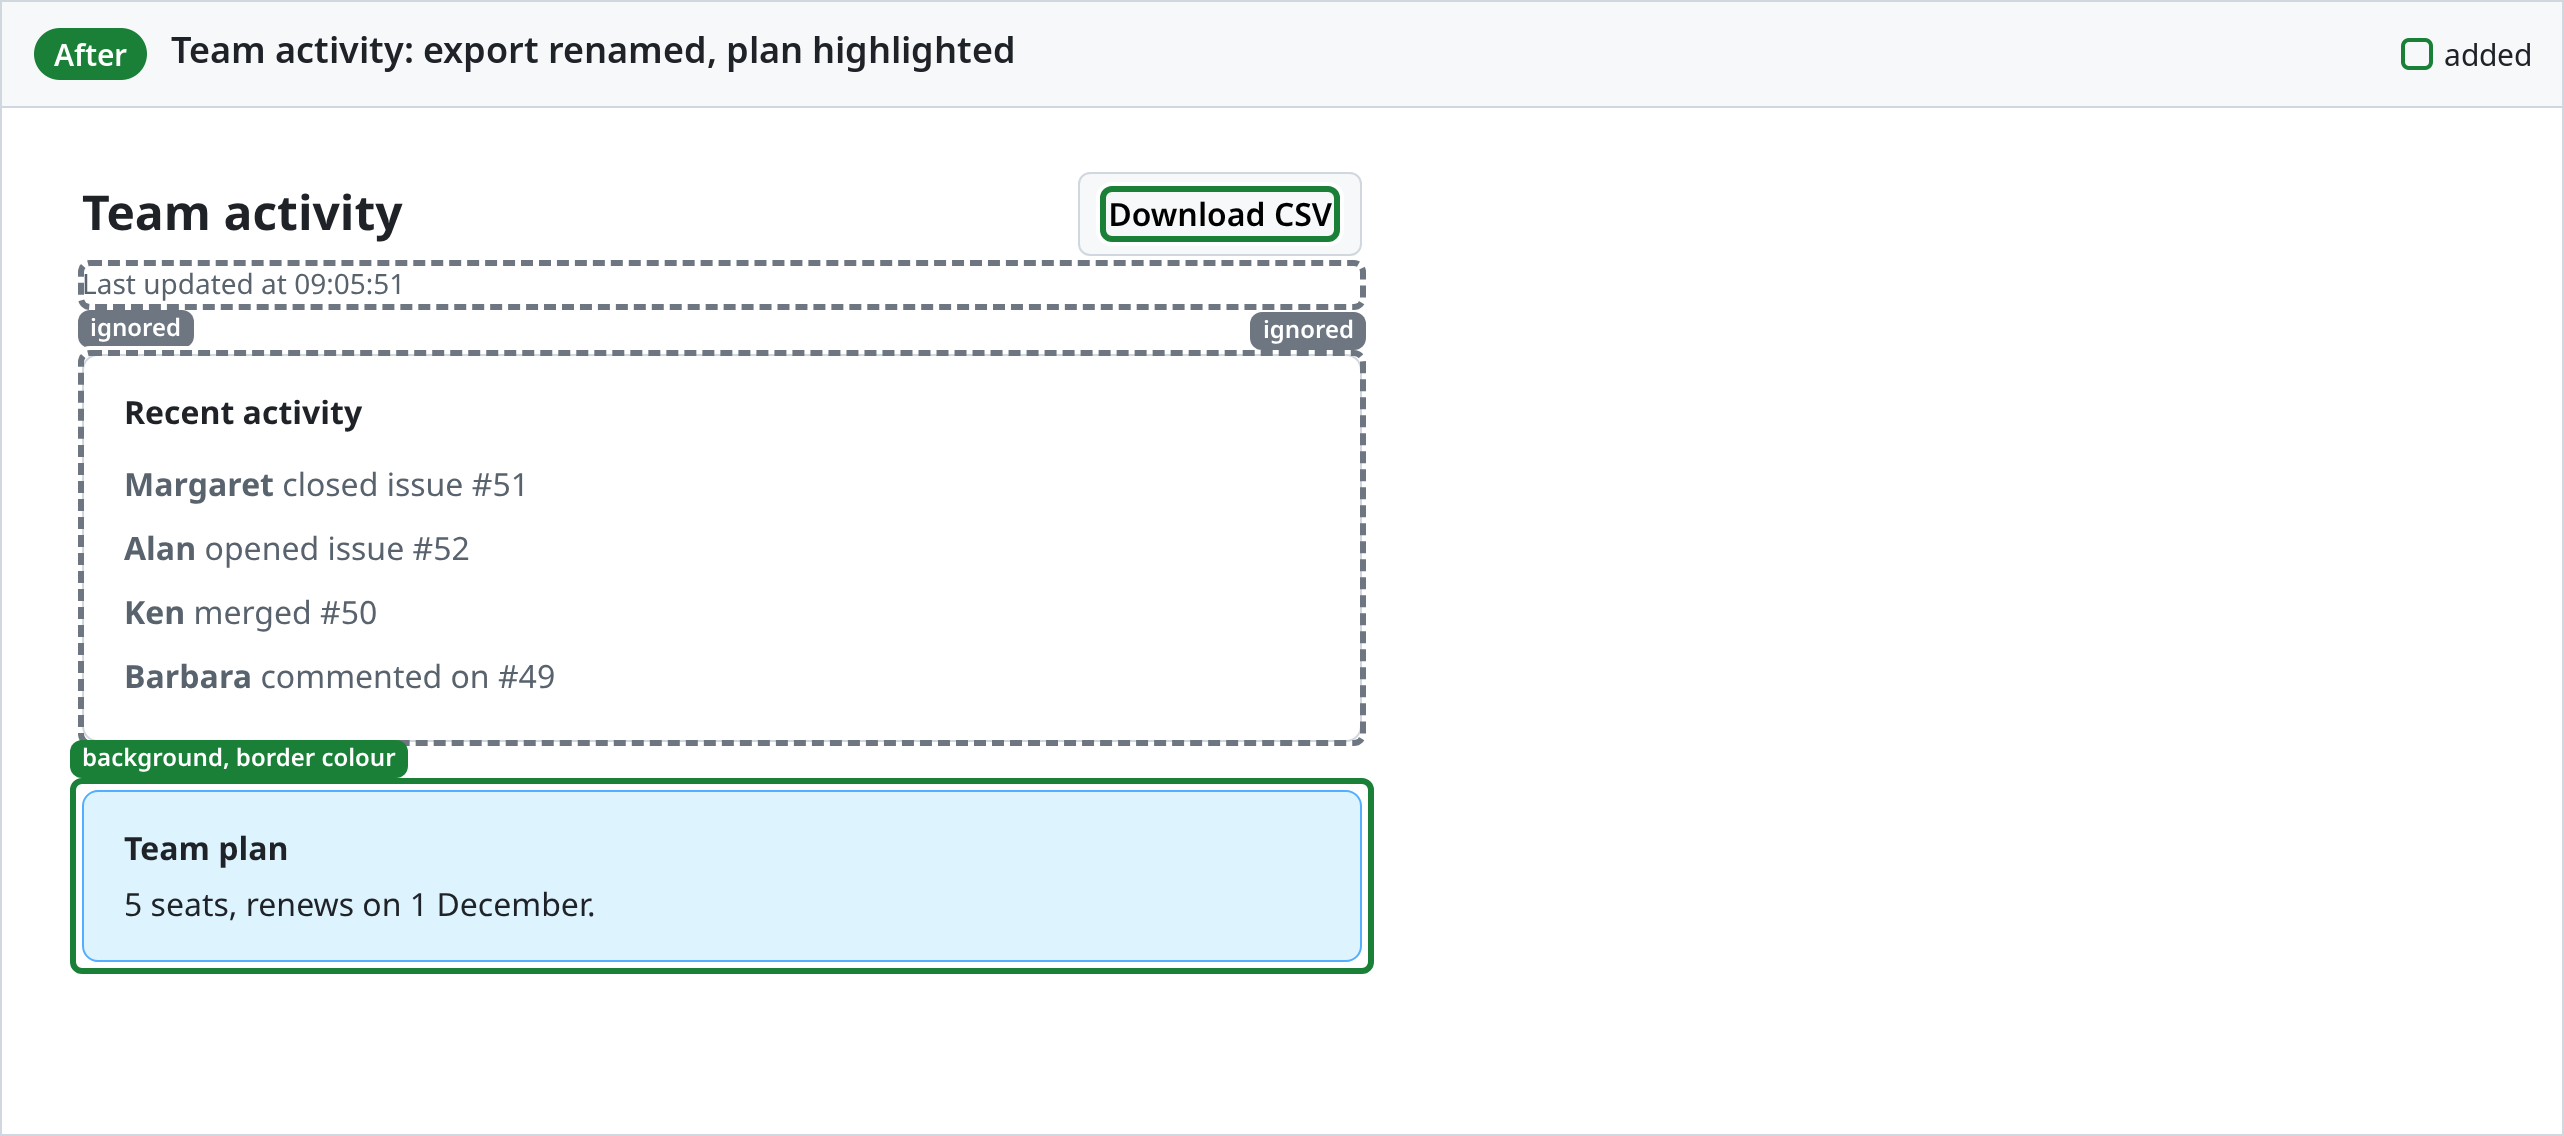
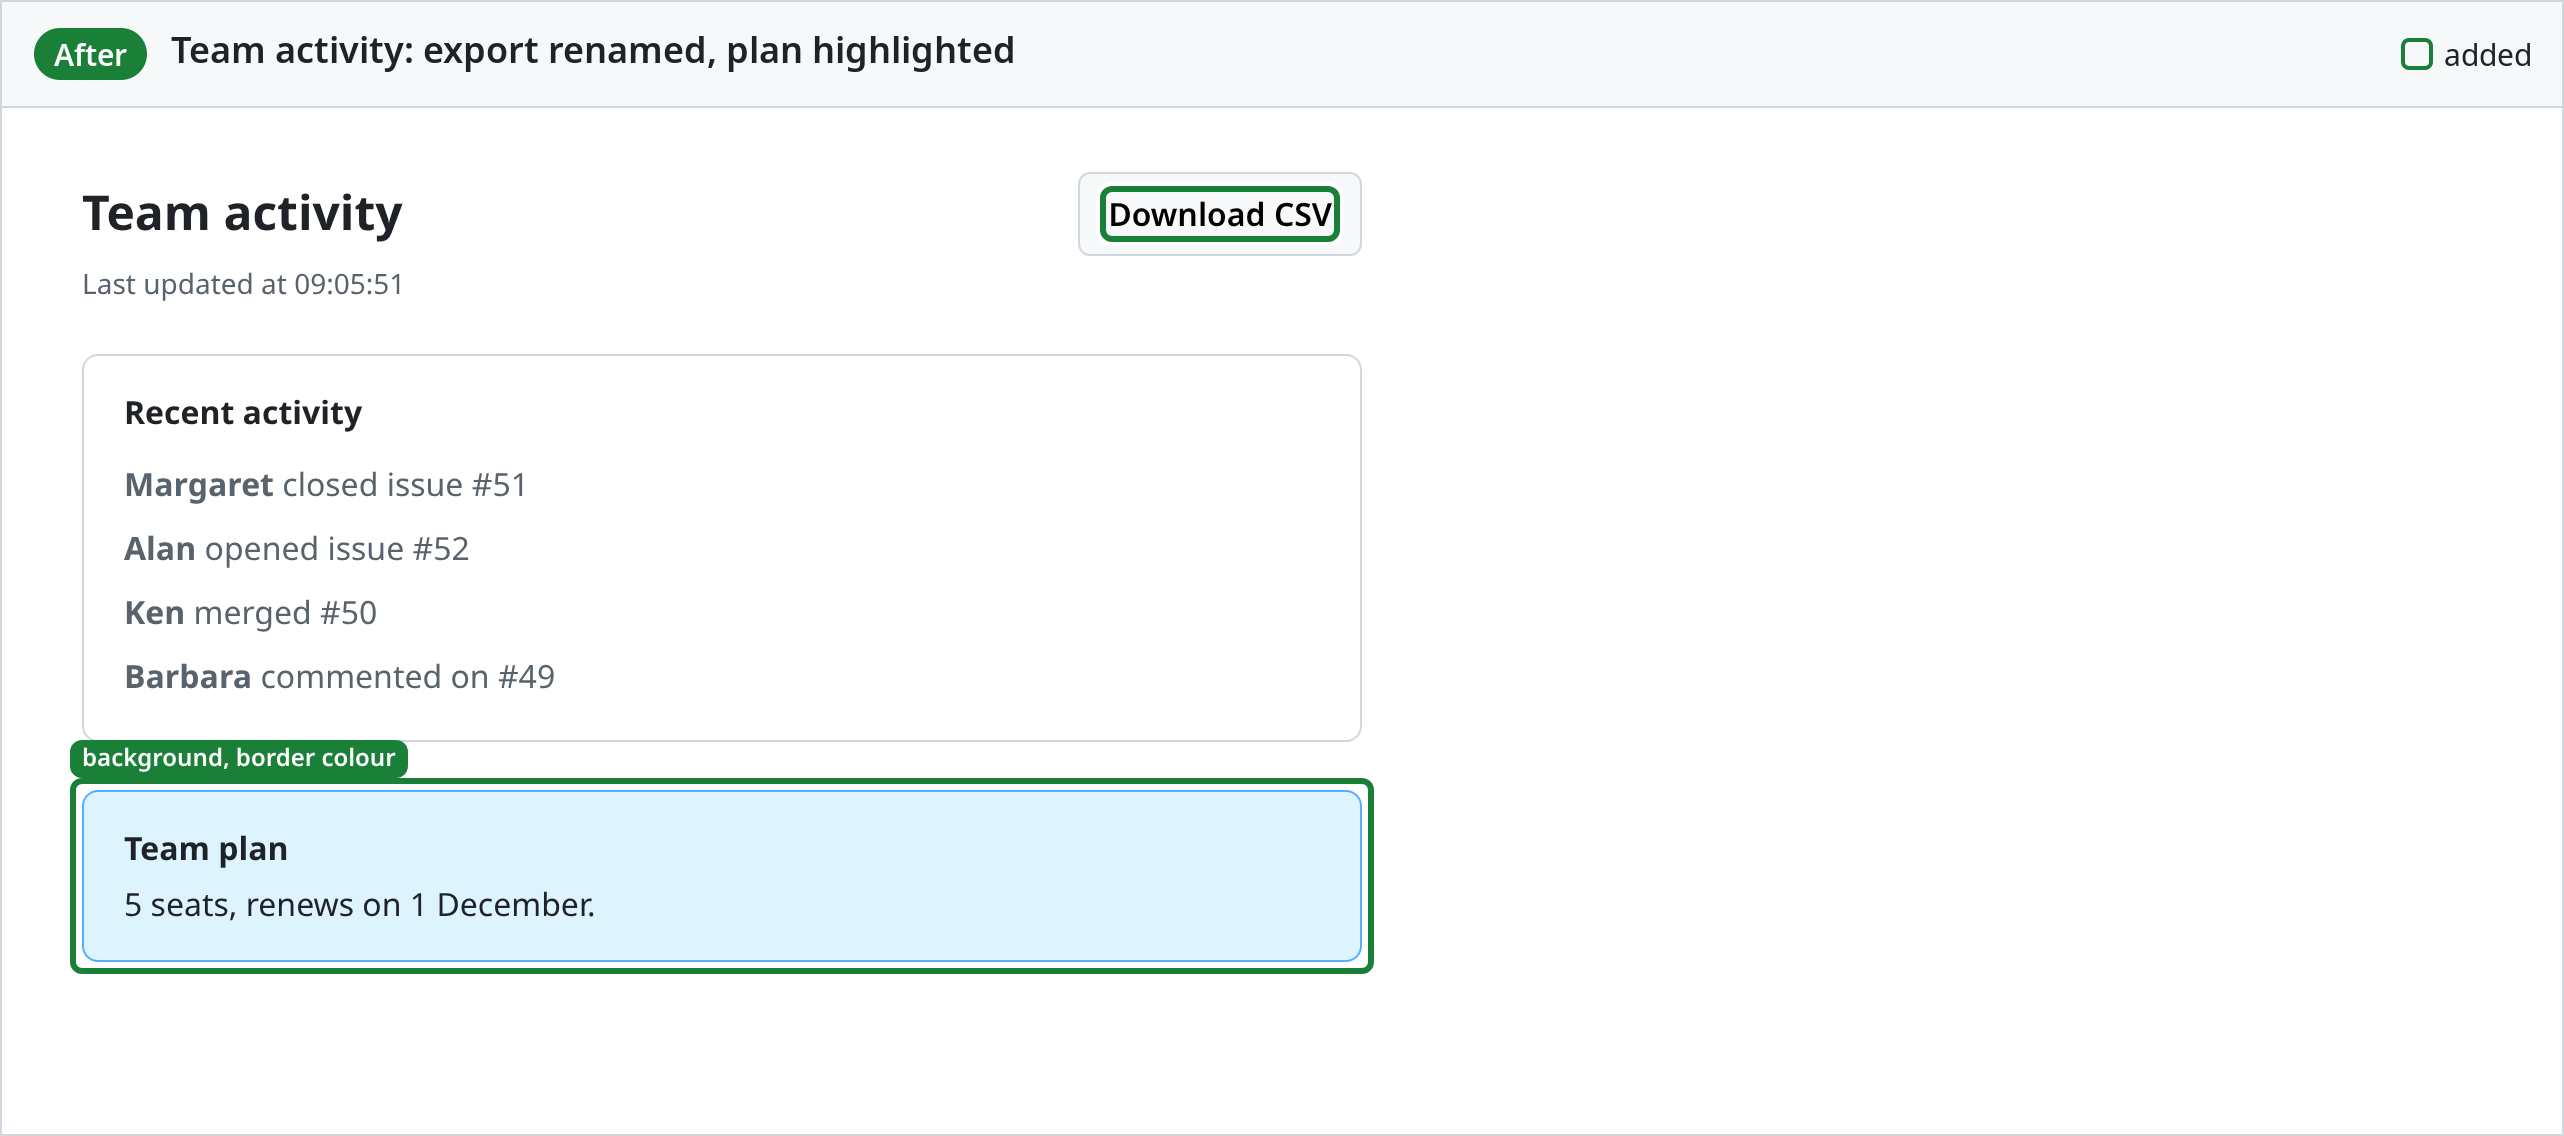
Leave ignored areas unmarked unless --show-ignored is given
Some shots want no trace of what was left out. By default an area
--ignore leaves out now shows as it is, with no box; --show-ignored
boxes it in dashed grey, saying "ignored", as before. The examples
show both.

Changed region(s): [[0.0312, 0.2157, 0.5304, 0.3389], [0.156, 0.647, 0.5304, 0.6778]]

diff --git a/src/page/loaded.ts b/src/page/loaded.ts
@@ -27,6 +27,7 @@ export type LoadOptions = {
   click: string[]; // selectors to click after loading, in order
   wait: number; // milliseconds to wait after loading and clicking
   ignore: string[]; // selectors of the elements left out of the comparison, all inside them included
+  showIgnored: boolean; // box each of them in dashed grey, saying it is ignored
 };
 
 /** A page opened for one side: loaded, clicked and waited for, and not read yet. */
@@ -102,7 +103,7 @@ export async function open(
       read: async handled => {
         const [page] = context.pages();
         if (!page) throw new Error(`the ${side} page's window was closed before it was shot`);
-        return read(page, side, options.ignore, handled, close, work => work());
+        return read(page, side, options, handled, close, work => work());
       },
       close,
     };
@@ -152,7 +153,7 @@ export async function openTabs(
         if (!page) throw new Error(`the ${side} page's tab was closed before it was shot`);
         // Chrome draws the tab in front only: each shot waits its turn, with its tab brought forward.
         const inFront = <T>(work: () => Promise<T>) => inTurn(() => page.bringToFront().then(work));
-        return read(page, side, options.ignore, handled, close, inFront);
+        return read(page, side, options, handled, close, inFront);
       },
       close,
     }));
@@ -259,14 +260,14 @@ async function visit(page: Page, url: string, options: LoadOptions): Promise<voi
 async function read(
   page: Page,
   side: Side,
-  ignore: string[],
+  { ignore, showIgnored }: Pick<LoadOptions, 'ignore' | 'showIgnored'>,
   handled: boolean,
   close: () => Promise<void>,
   shooting: <T>(shot: () => Promise<T>) => Promise<T>,
 ): Promise<LoadedPage> {
   if (handled) await page.mouse.move(-1, -1);
   await page.evaluate(
-    `window.__shotDiff = (${runtime.toString()})(${JSON.stringify(Object.keys(PROPERTIES))}, ${JSON.stringify(ignore)})`,
+    `window.__shotDiff = (${runtime.toString()})(${JSON.stringify(Object.keys(PROPERTIES))}, ${JSON.stringify(ignore)}, ${showIgnored})`,
   );
   const { words, elements, width, ignored } = await page.evaluate(() => window.__shotDiff.reading);
   return {

diff --git a/examples/generate.ts b/examples/generate.ts
@@ -111,9 +111,18 @@ const EXAMPLES: Example[] = [
     name: 'Parts of the page left out',
     title: 'Team activity: export renamed, plan highlighted',
     shows:
-      'With `--ignore`, the elements named are left out of the comparison: here the time of the last update and the list of recent activity, which differ on every load. They get a dashed grey box saying they were ignored, not missed; the button renamed and the plan restyled around them are marked as usual. Without `--ignore`, the time and every name in the list would be boxed.',
+      'With `--ignore`, the elements named are left out of the comparison: here the time of the last update and the list of recent activity, which differ on every load. They show as they are, with no mark; the button renamed and the plan restyled around them are marked as usual. Without `--ignore`, the time and every name in the list would be boxed.',
     pages: ['activity/before.html', 'activity/after.html'],
     options: ['--ignore', '.updated', '--ignore', '.activity'],
+  },
+  {
+    id: 'show-ignored',
+    name: 'Parts of the page left out, and shown',
+    title: 'Team activity: export renamed, plan highlighted',
+    shows:
+      'The same, with `--show-ignored`: each part left out gets a dashed grey box saying it was ignored, so a reader can tell it was left out on purpose, not missed.',
+    pages: ['activity/before.html', 'activity/after.html'],
+    options: ['--ignore', '.updated', '--ignore', '.activity', '--show-ignored'],
   },
   {
     id: 'scroll-area',
@@ -229,6 +238,7 @@ async function shootByHand(example: Example, folder: string): Promise<void> {
       click: [],
       wait: 300,
       ignore: [],
+      showIgnored: false,
       padding: 80,
       maxHeight: 2400,
       selector: null,

diff --git a/src/page/runtime.ts b/src/page/runtime.ts
@@ -28,7 +28,7 @@ export type Spans = { words: (Span | null)[]; looks: Span[] };
 
 /** The page's runtime, reading the page's words and the `properties` of its elements before anything
  * is drawn over it. */
-export function runtime(properties: string[], ignore: string[] = []) {
+export function runtime(properties: string[], ignore: string[] = [], showIgnored = false) {
   /** A word, as a stretch of a text node, or an image. */
   type Token = { node: Text; start: number; end: number } | { image: Element };
 
@@ -525,8 +525,8 @@ export function runtime(properties: string[], ignore: string[] = []) {
     return { ...region, changed: region, inside: true, clipped: false };
   };
 
-  /** A dashed grey box, with "ignored" on it, around each area --ignore leaves out, so a reader can
-   * tell it was left out on purpose, not missed. One inside another is the outer one's; one that
+  /** A dashed grey box, with "ignored" on it, around each area --ignore leaves out, with
+   * --show-ignored: so a reader can tell it was left out on purpose, not missed. One inside another is the outer one's; one that
    * does not show gets none. It is no change: it says nothing of where the shots go. */
   const drawIgnored = (layer: HTMLElement, taken: Box[]) => {
     for (const element of ignored) {
@@ -616,7 +616,7 @@ export function runtime(properties: string[], ignore: string[] = []) {
         undo.looks.push(removing(drawn));
         return { ...span, inside: inside(element ? [element] : []) };
       });
-      drawIgnored(under, taken);
+      if (showIgnored) drawIgnored(under, taken);
       return { words, looks };
     },
 

diff --git a/src/page/runtime.browser.test.ts b/src/page/runtime.browser.test.ts
@@ -53,10 +53,19 @@ describe('read, with elements ignored', () => {
     expect(p.reading.ignored).toEqual([2, 0]);
   });
 
+  test('draws nothing for them unless asked', () => {
+    document.body.innerHTML = STYLE + '<p>keep</p><p class="data">12</p>';
+    const p = new Function(
+      `return (${runtime.toString()})(${JSON.stringify(PROPS)}, ${JSON.stringify(['.data'])})`,
+    )() as Runtime;
+    p.mark(marks({}));
+    expect(drawn()).toHaveLength(0);
+  });
+
   test('gets a dashed box saying so when the page is marked, one for an area in another', () => {
     document.body.innerHTML = STYLE + '<p>keep</p><div class="data"><p class="data">12</p></div>';
     const p = new Function(
-      `return (${runtime.toString()})(${JSON.stringify(PROPS)}, ${JSON.stringify(['.data'])})`,
+      `return (${runtime.toString()})(${JSON.stringify(PROPS)}, ${JSON.stringify(['.data'])}, true)`,
     )() as Runtime;
     p.mark(marks({}));
     const [box, ...more] = drawn();

diff --git a/e2e/images.test.ts b/e2e/images.test.ts
@@ -21,7 +21,7 @@ const CASES: { name: string; before: string; after: string; args?: string[] }[] 
     name: 'ignored',
     before: 'activity/before.html',
     after: 'activity/after.html',
-    args: ['--ignore', '.updated', '--ignore', '.activity'],
+    args: ['--ignore', '.updated', '--ignore', '.activity', '--show-ignored'],
   },
   { name: 'dashboard-labels', before: 'dashboard/before.html', after: 'dashboard/after.html' },
   {

diff --git a/src/cli.ts b/src/cli.ts
@@ -95,6 +95,7 @@ A local file is a file:// URL.`,
     append,
     [],
   )
+  .option('--show-ignored', 'box what --ignore leaves out in dashed grey, saying it is ignored', false)
   .option('--selector <css>', 'only look at changes inside this element; the rest are ignored')
   .option('--padding <px>', 'room around the changes', nonNegativeNumber, 80)
   .addOption(

diff --git a/src/page/loaded.test.ts b/src/page/loaded.test.ts
@@ -16,6 +16,7 @@ const OPTIONS: LoadOptions = {
   click: [],
   wait: 0,
   ignore: [],
+  showIgnored: false,
 };
 
 /** A page whose body is `html`, as a URL. */

diff --git a/e2e/run.test.ts b/e2e/run.test.ts
@@ -27,6 +27,7 @@ const OPTIONS: Options = {
   click: [],
   wait: 0,
   ignore: [],
+  showIgnored: false,
   padding: 80,
   maxHeight: 2400,
   selector: null,

diff --git a/examples/README.md b/examples/README.md
@@ -192,7 +192,7 @@ shot-diff: 2 change(s) outside --selector ignored (listed under "ignored" in --j
 
 ## Parts of the page left out
 
-With `--ignore`, the elements named are left out of the comparison: here the time of the last update and the list of recent activity, which differ on every load. They get a dashed grey box saying they were ignored, not missed; the button renamed and the plan restyled around them are marked as usual. Without `--ignore`, the time and every name in the list would be boxed.
+With `--ignore`, the elements named are left out of the comparison: here the time of the last update and the list of recent activity, which differ on every load. They show as they are, with no mark; the button renamed and the plan restyled around them are marked as usual. Without `--ignore`, the time and every name in the list would be boxed.
 
 ```sh
 shot-diff "file://$PWD/e2e/fixtures/activity/before.html" "file://$PWD/e2e/fixtures/activity/after.html" \
@@ -207,6 +207,24 @@ examples/ignore/shot-after.png: 2 part(s) added
 | Before | After |
 |---|---|
 | ![before](ignore/shot-before.png) | ![after](ignore/shot-after.png) |
+
+## Parts of the page left out, and shown
+
+The same, with `--show-ignored`: each part left out gets a dashed grey box saying it was ignored, so a reader can tell it was left out on purpose, not missed.
+
+```sh
+shot-diff "file://$PWD/e2e/fixtures/activity/before.html" "file://$PWD/e2e/fixtures/activity/after.html" \
+  --title "Team activity: export renamed, plan highlighted" --ignore .updated --ignore .activity --show-ignored
+```
+
+```
+examples/show-ignored/shot-before.png: 2 part(s) removed
+examples/show-ignored/shot-after.png: 2 part(s) added
+```
+
+| Before | After |
+|---|---|
+| ![before](show-ignored/shot-before.png) | ![after](show-ignored/shot-after.png) |
 
 ## A change a scroll area cuts off
 

diff --git a/README.md b/README.md
@@ -194,7 +194,8 @@ The same every time, with nobody there:
 | `--wait <ms>` | 300 | wait after loading and clicking |
 | `--interactive` | | open both pages in windows, and shoot them once you have set them up by hand |
 | `--tabs` | | with `--interactive`: one window with both pages as tabs, which you can resize |
-| `--ignore <css>` | | leave these elements, and all inside them, out of the comparison, for parts showing other data (prices, dates, a live counter); repeatable, each selector matching every element it fits; they still show in the shots, in a dashed grey box saying "ignored", so a reader can tell they were left out on purpose. `--json` says how many each matched on each page |
+| `--ignore <css>` | | leave these elements, and all inside them, out of the comparison, for parts showing other data (prices, dates, a live counter); repeatable, each selector matching every element it fits; they still show in the shots, unmarked. `--json` says how many each matched on each page |
+| `--show-ignored` | | box what `--ignore` leaves out in dashed grey, saying "ignored", so a reader can tell it was left out on purpose, not missed |
 | `--no-words` | | compare no words, for pages whose text differs anyway (random text, other data): only changes of look, and elements added or removed, are marked; elements are paired by what they are, not by what they say |
 | `--markers labels\|numbers` | `labels` | on a box around a change of look: what changed written on it, or a number explained in the band |
 | `--padding <px>` | 80 | room kept around the changes |
